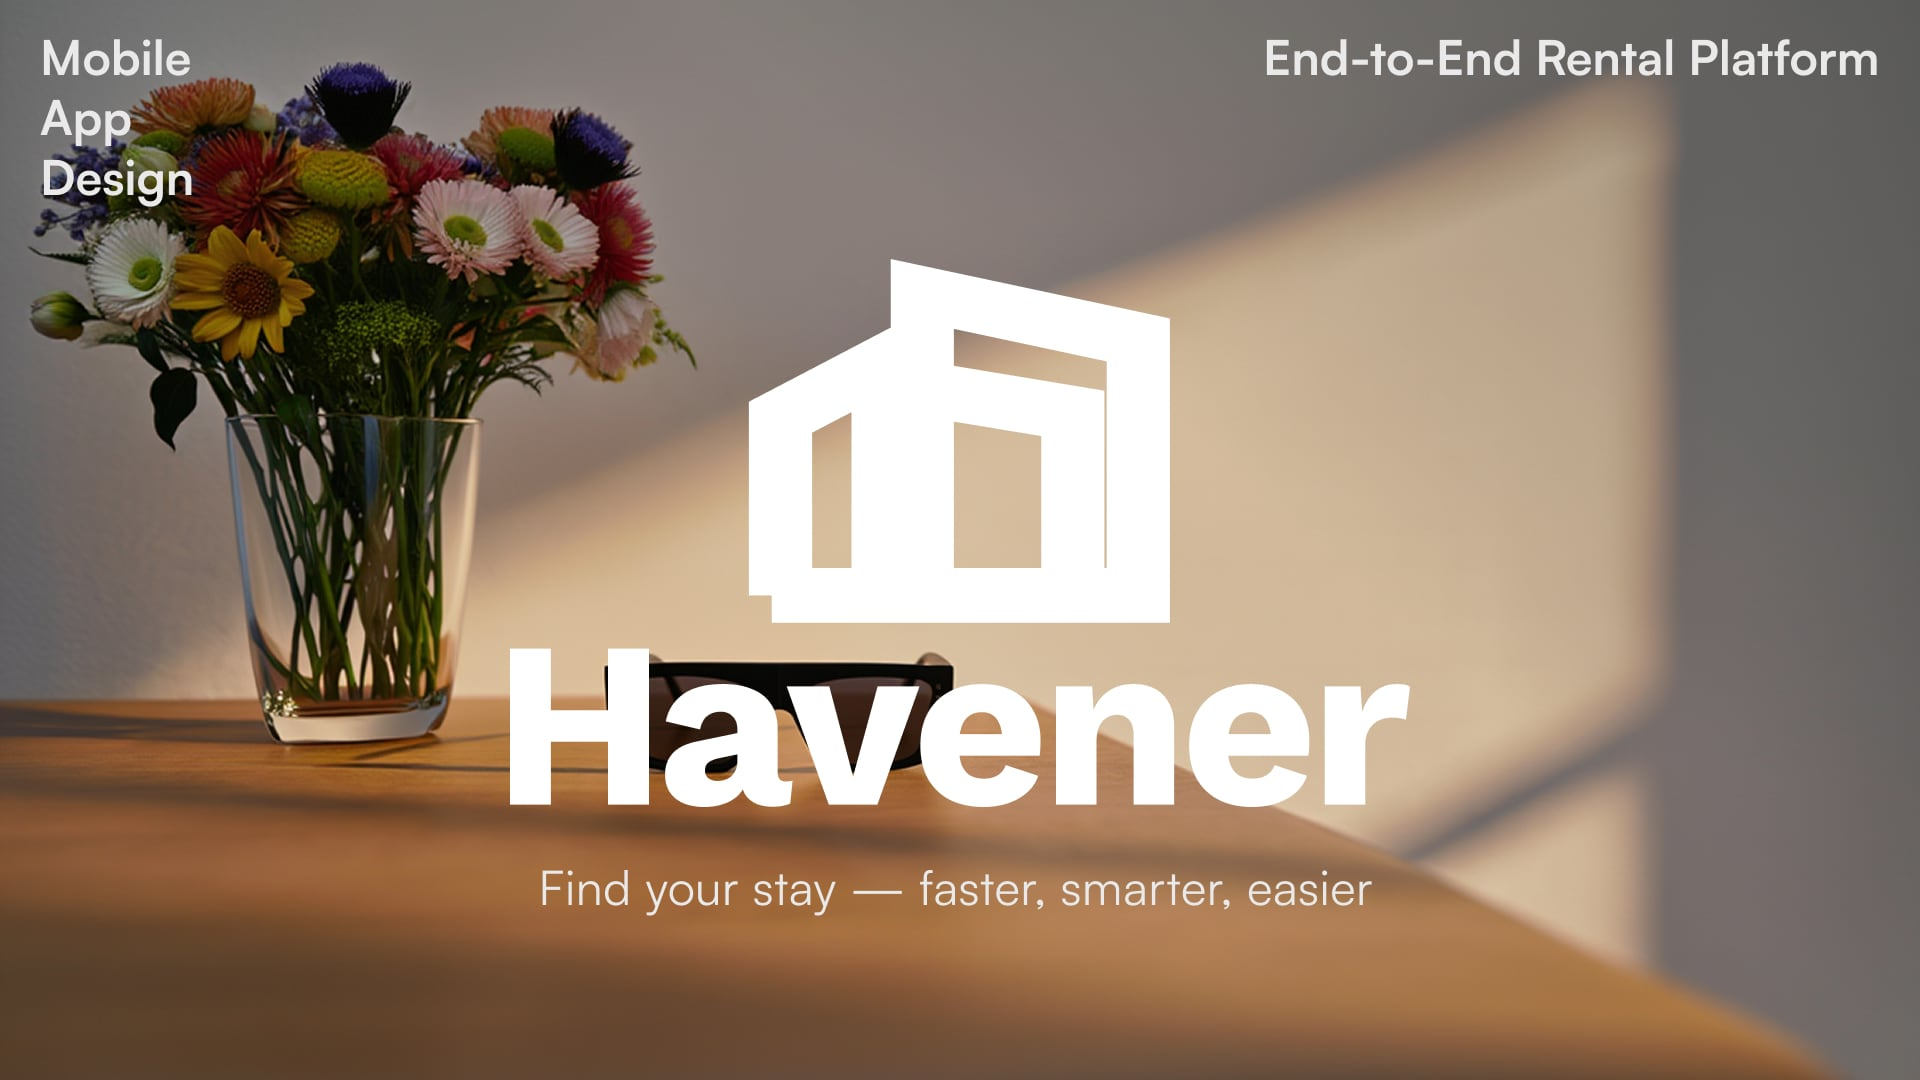
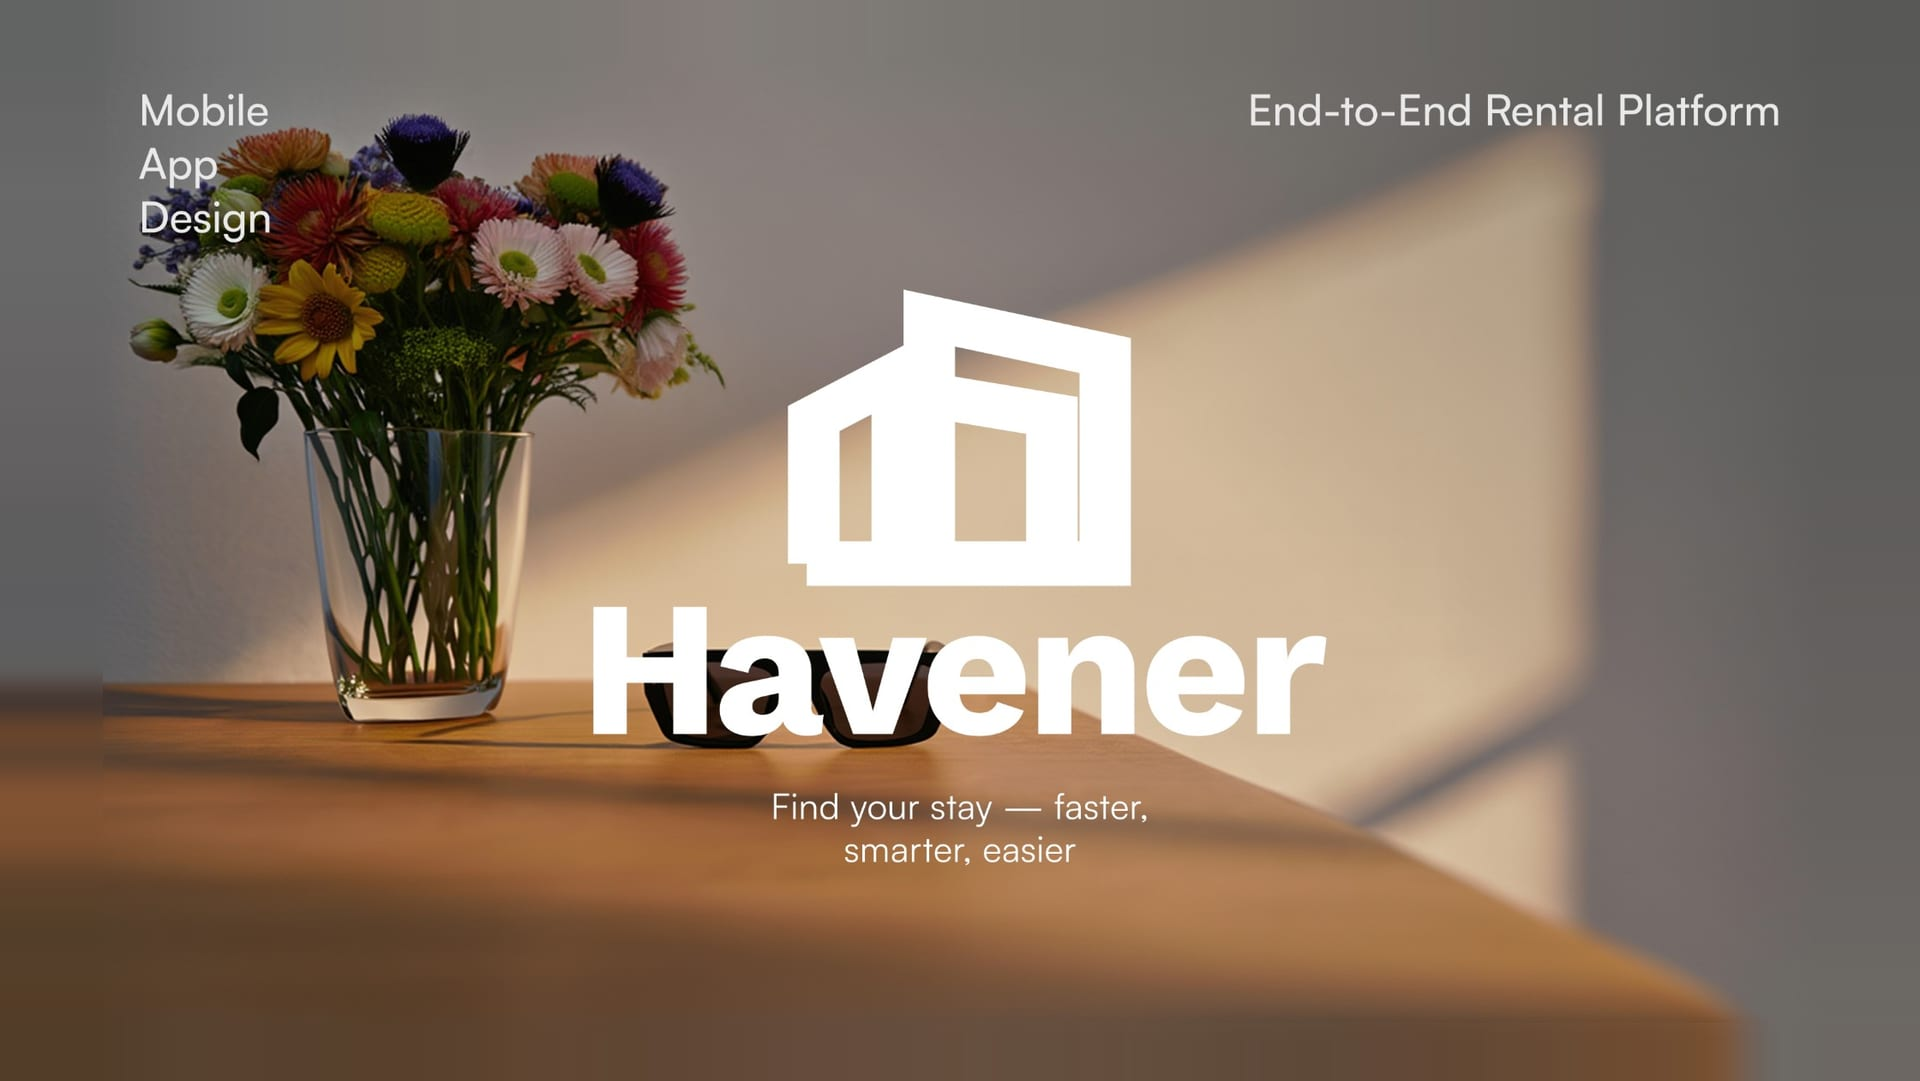
Give the Havener hero cover inner margins
The 1.7:1 hero clamp crops ~2% off each side of this 16:9 cover, which
was exactly the margin around the corner labels, so they sat flush on
the frame edge. The cover (updated version with two-line tagline) is
now extended by 6% per side with a feathered, graded-blur border built
from its own edge pixels, leaving the labels ~5% in from the visible
frame after the crop.

diff --git a/cases/mobile-rental.html b/cases/mobile-rental.html
@@ -40,7 +40,7 @@
         </dl>
       </div>
       <figure class="cs-hero__media reveal" style="--i:2; --hero-ar:1.700">
-        <img src="../assets/cases/mobile-rental/01-intro.jpg" width="1920" height="1080" alt="Обложка Havener: «Find your stay — faster, smarter, easier»" fetchpriority="high">
+        <img src="../assets/cases/mobile-rental/01-intro.jpg" width="1920" height="1081" alt="Обложка Havener: «Find your stay — faster, smarter, easier»" fetchpriority="high">
       </figure>
     </div>
   </section>
